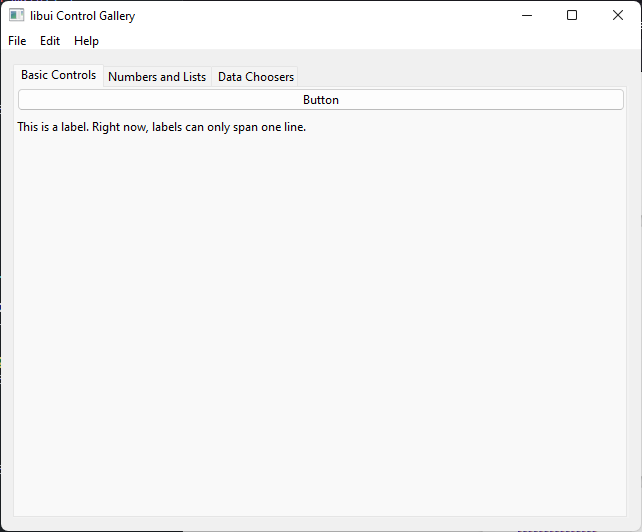
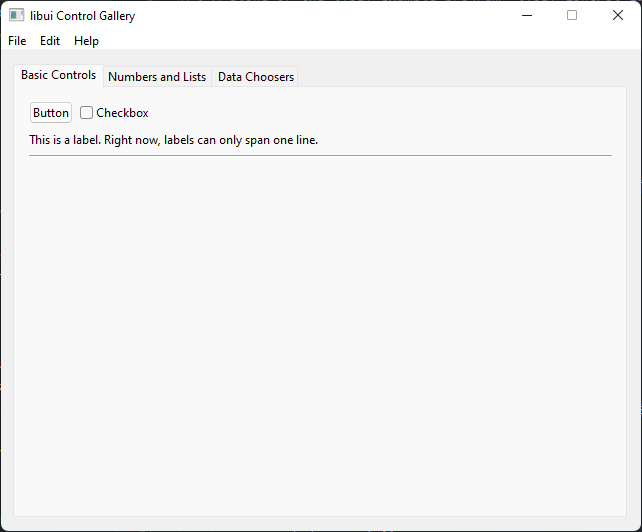
Update Control Gallery

diff --git a/examples/control_gallery.rs b/examples/control_gallery.rs
@@ -14,6 +14,7 @@ fn main() {
         .create_window("libui Control Gallery", 640, 480, true, true)
         .unwrap();
     window.set_margined(true);
+    window.set_resizeable(false);
 
     let mut tab = tab::create(&ui);
     window.set_child(&mut tab);
@@ -71,12 +72,16 @@ mod menubar {
 mod tab {
     pub fn create(ui: &boing::Ui) -> boing::Tab {
         let tab = ui.create_tab().unwrap();
-        tab.append_new_page("Basic Controls", &mut basic_controls::create(ui))
+        let basic_controls = tab.append_new_page("Basic Controls", &mut basic_controls::create(ui))
             .unwrap();
-        tab.append_new_page("Numbers and Lists", &mut numbers_n_lists::create(ui))
+        let numbers_n_lists = tab.append_new_page("Numbers and Lists", &mut numbers_n_lists::create(ui))
             .unwrap();
-        tab.append_new_page("Data Choosers", &mut data_choosers::create(ui))
+        let data_choosers = tab.append_new_page("Data Choosers", &mut data_choosers::create(ui))
             .unwrap();
+
+        tab.set_page_margined(basic_controls, true);
+        tab.set_page_margined(numbers_n_lists, true);
+        tab.set_page_margined(data_choosers, true);
 
         tab
     }
@@ -87,17 +92,22 @@ mod tab {
         pub fn create(ui: &boing::Ui) -> impl DerefMut<Target = boing::Control> {
             static LABEL_TEXT: &str = "This is a label. Right now, labels can only span one line.";
 
-            let y_axis = ui.create_vertical_axis().unwrap();
-            y_axis.set_padded(true);
+            let axis = ui.create_vertical_axis().unwrap();
+            axis.set_padded(true);
+            axis.append_new_child(&mut create_x_axis(ui), false);
+            axis.append_new_child(&mut ui.create_label(LABEL_TEXT).unwrap(), false);
+            axis.append_new_child(&mut ui.create_horizontal_separator().unwrap(), false);
 
-            let mut button_axis = ui.create_horizontal_axis().unwrap();
-            button_axis.set_padded(true);
-            button_axis.append_new_child(&mut ui.create_pushbutton("Button").unwrap(), true);
+            axis
+        }
 
-            y_axis.append_new_child(&mut button_axis, false);
-            y_axis.append_new_child(&mut ui.create_label(LABEL_TEXT).unwrap(), false);
+        fn create_x_axis(ui: &boing::Ui) -> boing::Axis {
+            let axis = ui.create_horizontal_axis().unwrap();
+            axis.set_padded(true);
+            axis.append_new_child(&mut ui.create_pushbutton("Button").unwrap(), false);
+            axis.append_new_child(&mut ui.create_checkbox("Checkbox").unwrap(), false);
 
-            y_axis
+            axis
         }
     }
 
@@ -105,42 +115,61 @@ mod tab {
         use std::ops::DerefMut;
 
         pub fn create(ui: &boing::Ui) -> impl DerefMut<Target = boing::Control> {
-            let x_axis = ui.create_horizontal_axis().unwrap();
-            x_axis.append_new_child(&mut create_numbers_group(ui), true);
-            x_axis.append_new_child(&mut create_lists_group(ui), true);
+            let axis = ui.create_horizontal_axis().unwrap();
+            axis.append_new_child(&mut create_numbers_group(ui), true);
+            axis.append_new_child(&mut create_lists_group(ui), true);
 
-            x_axis
+            axis
         }
 
         fn create_numbers_group(ui: &boing::Ui) -> impl DerefMut<Target = boing::Control> {
             let group = ui.create_group("Numbers").unwrap();
+            group.set_margined(true);
             group.set_child(&mut create_numbers_axis(ui));
 
             group
         }
 
         fn create_numbers_axis(ui: &boing::Ui) -> impl DerefMut<Target = boing::Control> {
-            let y_axis = ui.create_vertical_axis().unwrap();
-            y_axis.append_new_child(&mut ui.create_spinbox(0, 100).unwrap(), false);
-            y_axis.append_new_child(&mut ui.create_slider(0, 100).unwrap(), false);
-            y_axis.append_new_child(&mut ui.create_progress_bar().unwrap(), false);
+            let axis = ui.create_vertical_axis().unwrap();
+            axis.append_new_child(&mut ui.create_spinbox(0, 100).unwrap(), false);
+            axis.append_new_child(&mut ui.create_slider(0, 100).unwrap(), false);
+            axis.append_new_child(&mut ui.create_progress_bar().unwrap(), false);
+            axis.append_new_child(&mut create_loading_bar(ui), false);
 
-            let mut loading_bar = ui.create_progress_bar().unwrap();
+            axis
+        }
+
+        fn create_loading_bar(ui: &boing::Ui) -> boing::ProgressBar {
+            let loading_bar = ui.create_progress_bar().unwrap();
             loading_bar.set_indefinite();
-            y_axis.append_new_child(&mut loading_bar, false);
 
-            y_axis
+            loading_bar
         }
 
         fn create_lists_group(ui: &boing::Ui) -> impl DerefMut<Target = boing::Control> {
             let group = ui.create_group("Lists").unwrap();
+            group.set_margined(true);
             group.set_child(&mut create_lists_axis(ui));
 
             group
         }
 
         fn create_lists_axis(ui: &boing::Ui) -> impl DerefMut<Target = boing::Control> {
-            ui.create_vertical_axis().unwrap()
+            let axis = ui.create_vertical_axis().unwrap();
+            axis.append_new_child(&mut create_radio_buttons(ui), false);
+
+            axis
+        }
+
+        fn create_radio_buttons(ui: &boing::Ui) -> boing::RadioButtons {
+            let mut buttons = ui.create_radio_buttons().unwrap();
+            buttons.append_new_item("Radio Button 1").unwrap();
+            buttons.append_new_item("Radio Button 2").unwrap();
+            buttons.append_new_item("Radio Button 3").unwrap();
+            buttons.append_new_item("Radio Button 4").unwrap();
+
+            buttons
         }
     }
 
@@ -148,10 +177,21 @@ mod tab {
         use std::ops::DerefMut;
 
         pub fn create(ui: &boing::Ui) -> impl DerefMut<Target = boing::Control> {
-            let _y_axis = ui.create_vertical_axis().unwrap();
-            let x_axis = ui.create_horizontal_axis().unwrap();
+            let axis = ui.create_horizontal_axis().unwrap();
+            axis.set_padded(true);
+            axis.append_new_child(&mut create_picker_axis(ui), false);
+            axis.append_new_child(&mut ui.create_vertical_separator().unwrap(), false);
 
-            x_axis
+            axis
+        }
+
+        fn create_picker_axis(ui: &boing::Ui) -> boing::Axis {
+            let axis = ui.create_vertical_axis().unwrap();
+            axis.set_padded(true);
+            axis.append_new_child(&mut ui.create_font_picker().unwrap(), false);
+            axis.append_new_child(&mut ui.create_color_picker().unwrap(), false);
+
+            axis
         }
     }
 }

diff --git a/src/lib.rs b/src/lib.rs
@@ -62,7 +62,15 @@
         all(),
         doc = embed_doc_image::embed_image!(
             "control-gallery.basic-controls",
-            "screenshots/control-gallery/basic-controls.png"
+            "screenshots/control-gallery/basic-controls@2x.png"
+        ),
+        doc = embed_doc_image::embed_image!(
+            "control-gallery.numbers-and-lists",
+            "screenshots/control-gallery/numbers-and-lists@2x.png"
+        ),
+        doc = embed_doc_image::embed_image!(
+            "control-gallery.data-choosers",
+            "screenshots/control-gallery/data-choosers@2x.png"
         ),
     ),
 )]
@@ -76,8 +84,18 @@
     "},
 )]
 //!
+//! ### Windows
+//!
 //! ![A screenshot of the example application "libui Control Gallery" with Windows 11 widgets,
 //! focused on a tab labeled "Basic Controls".][control-gallery.basic-controls]
+//! ![A screenshot of the example application "libui Control Gallery" with Windows 11 widgets,
+//! focused on a tab labeled "Numbers and Lists".][control-gallery.numbers-and-lists]
+//! ![A screenshot of the example application "libui Control Gallery" with Windows 11 widgets,
+//! focused on a tab labeled "Data Choosers".][control-gallery.data-choosers]
+//!
+//! ### macOS
+//!
+//! ### Linux
 //!
 //! [libui-ng-sys]: https://crates.io/crates/libui-ng-sys
 //! [README]: https://github.com/norepimorphism/boing/tree/main/README.md

diff --git a/src/checkbox.rs b/src/checkbox.rs
@@ -5,12 +5,14 @@
 use crate::prelude::*;
 
 impl Ui {
-    // pub fn create_checkbox(&self) -> Result<Checkbox, crate::Error> {
-    //     call_libui_new_fn!(
-    //         ui: self,
-    //         fn: uiNewCheckbox() -> Checkbox,
-    //     )
-    // }
+    pub fn create_checkbox(&self, text: impl AsRef<str>) -> Result<Checkbox, crate::Error> {
+        let text = make_cstring!(text.as_ref());
+
+        call_libui_new_fn!(
+            ui: self,
+            fn: uiNewCheckbox(text.as_ptr()) -> Checkbox,
+        )
+    }
 }
 
 def_subcontrol!(
